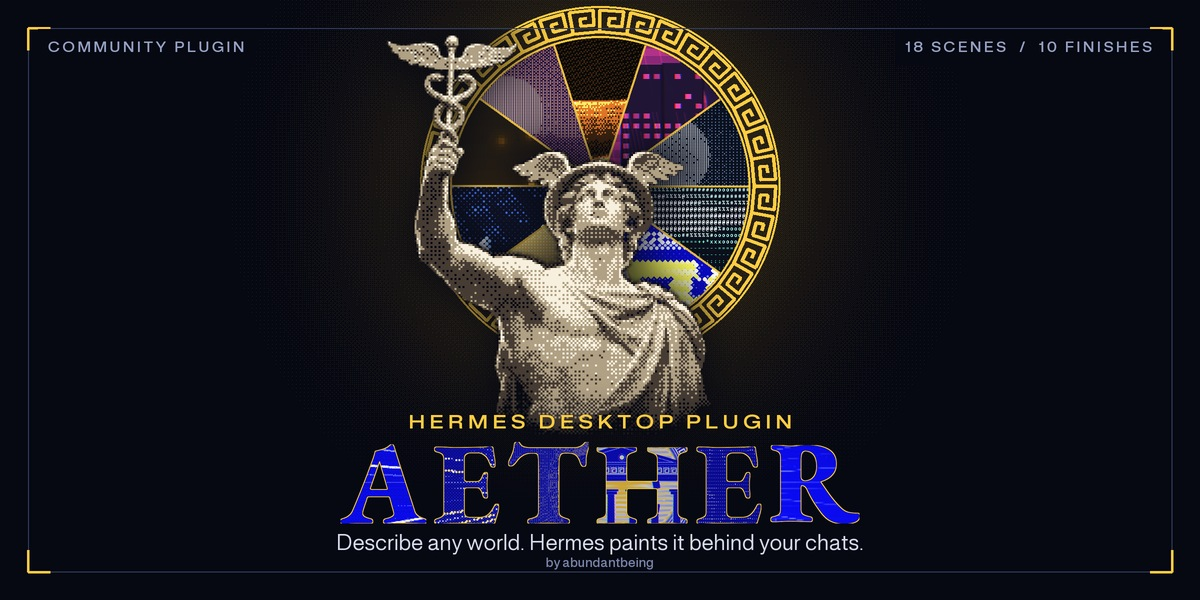
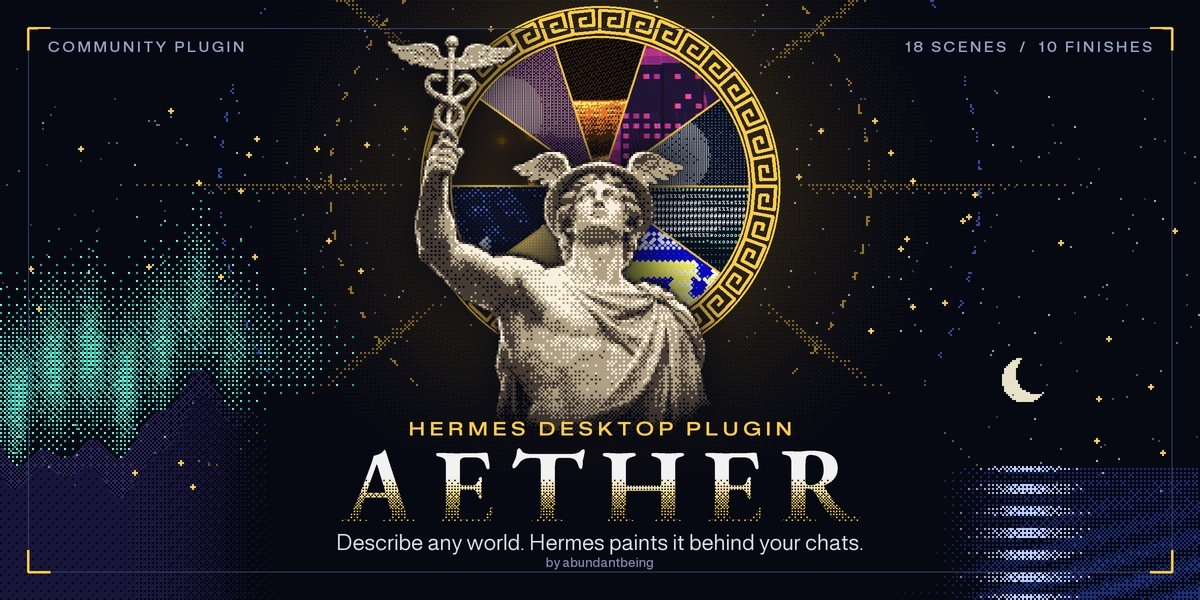
Put the new cover at the top of the README, drop the film, and document themes from other creators

diff --git a/README.md b/README.md
@@ -1,9 +1,5 @@
-<p align="center">
-  <img src="docs/brand/icon.png" width="140" height="140" alt="The Aether mark: the letters AE over a dithered gold black hole in a gold ring">
-</p>
-
 <h1 align="center">
-  <img src="docs/brand/wordmark.png" width="560" alt="AETHER, each letter a window onto the Olympus scene in a different finish: dither, halftone, braille, CRT, ASCII and pixel">
+  <img src="docs/brand/cover.jpg" width="900" alt="Aether, a Hermes Desktop plugin: a dithered marble Hermes raising the caduceus before a gold Greek-key halo of Aether scenes, over the AETHER wordmark">
 </h1>
 
 <p align="center">
@@ -19,11 +15,6 @@
   <a href="#how-it-works"><img src="https://img.shields.io/badge/JavaScript-desktop_half-F7DF1E?style=flat&logo=javascript&logoColor=111" alt="JavaScript desktop half"></a>
   <a href="#the-scenes"><img src="https://img.shields.io/badge/WebGL-24_scene_engines-0000F2?style=flat" alt="24 WebGL scene engines"></a>
   <a href="https://github.com/abundantbeing"><img src="https://img.shields.io/badge/by-abundantbeing-181717?style=flat&logo=github&logoColor=white" alt="by abundantbeing on GitHub"></a>
-</p>
-
-<p align="center">
-  <a href="https://github.com/abundantbeing/aether/releases/download/v0.1.0/aether-launch.mp4"><img src="docs/media/aether-demo.webp" width="800" alt="From the Aether launch film: in Hermes Desktop, a gold black hole fades in behind the chat after asking for one; then a run of Aether scenes cut on the same circle (a black hole, a temple sun, a neon sun, a striped sun, a moon); then the same black hole in a new finish on every beat"></a><br>
-  <sub>From the launch film, recorded in real Hermes Desktop with a real model answering. Click for the full film with sound.</sub>
 </p>
 
 **Living themes for Hermes Desktop.** Tell Hermes the look you want ("a slow dithered sunset over the sea", "a black hole, but gold", "my terminal, amber and raining") and it paints a full palette plus an animated scene behind your chats. Or pick one of eighteen hand-tuned scenes: auroras over still lakes, dawn over the edge of the world, a neon city in the rain, a temple above the clouds in Nous blue and gold.
@@ -80,6 +71,14 @@ Screenshots show the actual plugin in Hermes Desktop on Windows, with a real mod
 Open it from the command palette (Aether: Open theme gallery), the status-bar chip, or Settings, Plugins, Aether. Every card is a live preview of the theme with a small mock of the app painted in its colours; hover to animate. The box at the top hands your description to Hermes in a fresh chat.
 
 ![The Aether gallery](docs/screenshots/gallery.png)
+
+### Themes from other creators
+
+Already have a theme plugin from another community creator, such as Borealis? Aether finds it on its own. It shows in the gallery under **From other creators** with its creator's name and their own picture, and one click switches to it: the creator's scene and styles run exactly as they made them. Hover a card to give it a new accent (buttons, links and highlights) or to open the creator's page. A recolour is saved only on your computer, sits next to the original as "by its creator, recoloured by you", and can be deleted at any time to go back. Recolouring other creators' themes is experimental.
+
+![Borealis by Adolanium in the gallery's From other creators section, beside a recolour of it in orange](docs/screenshots/other-creators.png)
+
+![Recolouring Borealis: Hermes's accent swatches, any colour, and a live preview of the whole window](docs/screenshots/recolour-other-creator.png)
 
 ### Balanced and Vivid
 
